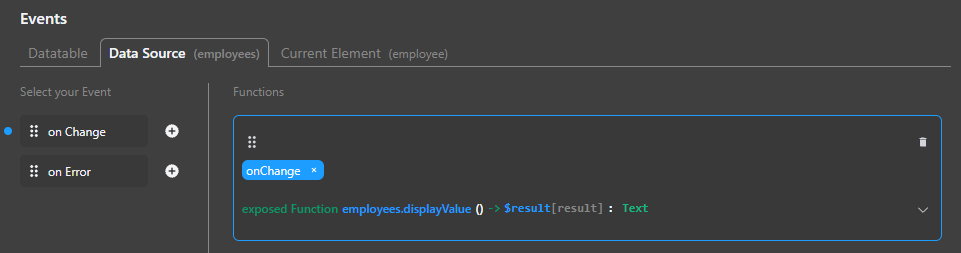
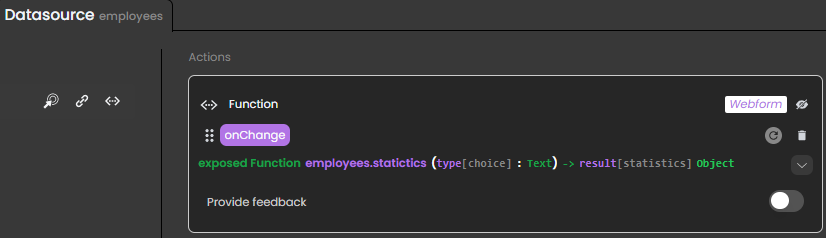
final fix with MS

diff --git a/docs/design-webforms/events/events.md b/docs/design-webforms/events/events.md
@@ -1,6 +1,6 @@
 ---
 id: events
-title: Events and interactions
+title: Events and standard actions
 ---
 
 Events are usually used as a means of triggering certain behaviors. They are used in conjunction with different actions to create interactions in an application.
@@ -107,23 +107,17 @@ For a list of datasource events, see [List of available events](#list-of-datasou
 
 In the image below: 
 
-* The **Datatable** component displays a list of employees, based on an entity selection (the `employees` datasource is attached).
-* The button slices the `employees` entity selection datasource to keep only the first three entities.
-* An `onChange` event is attached to the `employees` datasource.
-* The **Text** component contains a local datasource of type Text, called *result*.
+* The employee [Datatable component](components.md#datatable) displays a list of employees, based on an entity selection (the *employees* catalog datasource is attached).
+* The "General statistics/Detailed statistics" [radio component](components.md#radio) is bound to the *choice* webfom datasource. 
+* Buttons are bound to standard actions that execute queries on the employee datasource (e.g. "salary < 23000").
+* An `onChange` event is attached to the `employees` datasource and another `onChange` event is attached to the `choice` datasource. Both events call the same function from the `EmployeeSelection` class, named *statistics*.
+* For simplicity, the "statistics" scalar datasource (object) is displayed as a [Text component](components.md#text).
 
 ![event-datasource](img/event-datasource.png)
 
-When the end-user clicks the button, the `employees` datasource is updated, triggering the `onChange` event. This calls `displayValue` to update *result*:
+When the user clicks a button or select a radio button, the `employees` datasource is updated, triggering the `onChange` event. This function takes the value of the *choice* datasource as parameter, and returns general or detailed statistics as an object depending on the parameter value.  
 
 ![event-datasource-event](img/event-datasource-event.png)
-
-The `displayValue` function returns text according to the number of entities: 
-
-```4d 
-exposed function displayValue() -> $result : Text
-$result:="The table now displays " + String(This.length) + " entries"
-```
 
 Here's what you obtain after the button is clicked:
 

diff --git a/docs/design-webforms/datasources.md b/docs/design-webforms/datasources.md
@@ -146,7 +146,7 @@ There are several ways to bind a datasource to a component:
 * Drag it from the **Data Sources** section and drop it on a component
 * Select a component and enter the name of the datasource in the **Properties** panel > **Data Access** > **DataSource** 
 
-:::info Shortcuts
+:::note Shortcuts
 
 If you drag and drop an entity selection attribute to a [Select box](components.md#select-box) or [Matrix](components.md#matrix) component, the *$This.attributeName* binding is automatically done:
 ![alt-text](img/matrix-3.png)
@@ -154,6 +154,8 @@ If you drag and drop an entity selection attribute to a [Select box](components.
 For [images](components.md#images), the binding is automatically displayed in the Data Access panel:
 
 ![alt-text](img/matrix-4.png)
+
+:::
 
 
 ### Iterative components
